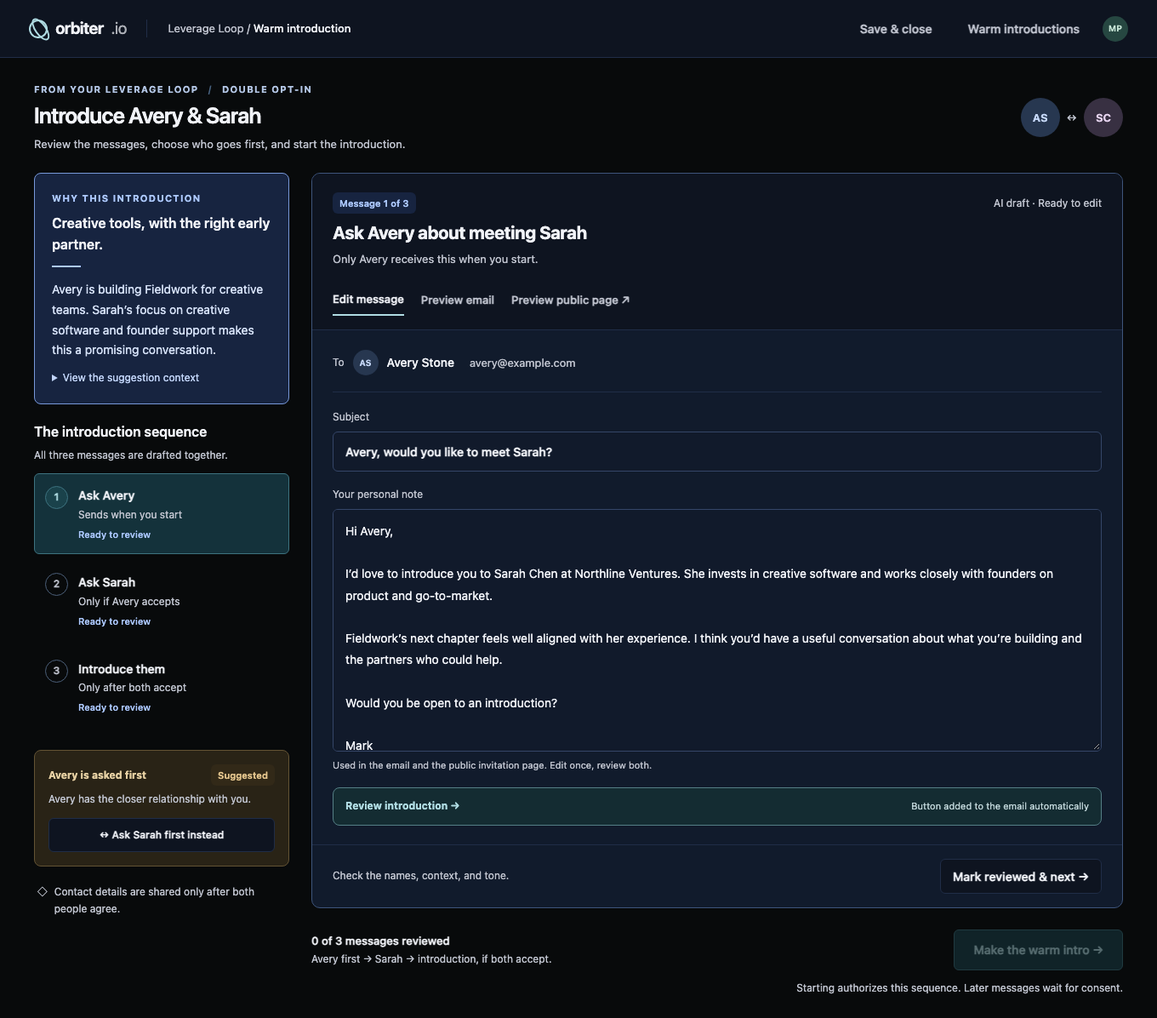
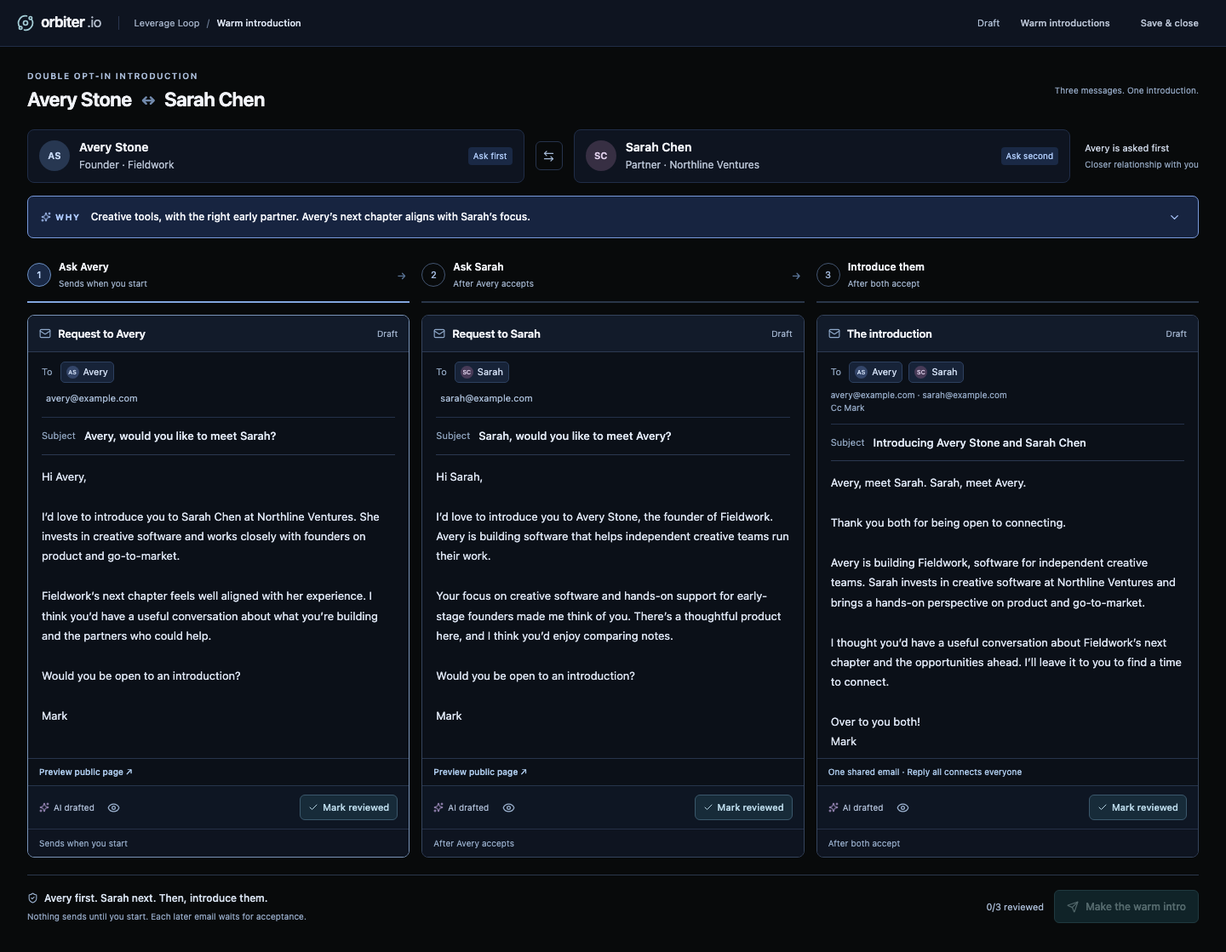
Use three composers for Warm Intro setup design

diff --git a/images/warm-intro/warm-intro-reference.html b/images/warm-intro/warm-intro-reference.html
@@ -24,6 +24,28 @@ button{border-radius:6px}button.primary{background:var(--orb-action-button);bord
 @media(max-width:420px){.public-content{padding:20px}.public-content h1{margin-top:20px}.public-profile{margin:18px 0}.personal-note .note-text{font-size:14px}.history-header .row{align-items:flex-start;flex-wrap:wrap}.recipient label{width:100%}.recipient{gap:8px}.recipient input{width:100%}.editor-bottom{align-items:stretch;flex-direction:column;gap:10px}.editor-bottom button{min-height:44px}.app-header .avatar{display:none}.prototype-bar nav{gap:1px}}
 .capture.mobile-direct .phone{min-height:0}
 </style>
+<style id="three-composer-styles">
+#wi-setup{--wi-page:#080a0b;--wi-panel:#0e1420;--wi-editor:#0b1018;--wi-border:#27344d;--wi-line:#202d47;--wi-text:#f1f3f8;--wi-muted:#b6c0d1;--wi-soft:#8e9eb5;--wi-why:#172440;--wi-why-border:#7899da;--wi-blue:#adc9ff;--wi-action:#14323b;--wi-action-button:#1a424b;--wi-action-border:#3e7380;--wi-action-text:#b0dce3;--wi-green:#a7d4bc;--wi-gap:14px;--wi-body-height:290px;--wi-pad:16px;color-scheme:dark;font-family:-apple-system,BlinkMacSystemFont,"Segoe UI",Arial,sans-serif;color:var(--wi-text);font-size:14px;line-height:1.5;width:100%;background:transparent}
+#wi-setup *{box-sizing:border-box}#wi-setup h1,#wi-setup h2,#wi-setup h3,#wi-setup p{margin:0}#wi-setup button,#wi-setup input,#wi-setup textarea{font:inherit}#wi-setup button{color:var(--wi-text);border:1px solid var(--wi-border);background:var(--wi-panel);border-radius:6px;min-height:34px;padding:7px 11px;font-size:12px;font-weight:500}#wi-setup button:hover{background:#162035;border-color:#627799}#wi-setup button:disabled{opacity:.45;cursor:default}#wi-setup button:focus-visible,#wi-setup input:focus-visible,#wi-setup textarea:focus-visible{outline:2px solid #adc9ff;outline-offset:3px}#wi-setup svg{width:15px;height:15px;flex:none}#wi-setup .wi-product{background:var(--wi-page);border:1px solid #253044;border-radius:10px;overflow:hidden}#wi-setup .wi-appbar{display:flex;align-items:center;gap:12px;min-height:54px;padding:10px 20px;background:var(--wi-panel);border-bottom:1px solid var(--wi-line)}#wi-setup .wi-appbar-left{display:flex;align-items:center;gap:20px;flex:1;min-width:0}#wi-setup .wi-brand{font-size:17px;font-weight:650;display:inline-flex;align-items:center;gap:5px;letter-spacing:-.5px;white-space:nowrap}#wi-setup .wi-brand>span{font-weight:400;color:#b3bdcc;margin-left:-2px}#wi-setup .wi-brand svg{width:20px;height:20px;margin-right:3px;color:#a6d0d9}#wi-setup .wi-breadcrumb{font-size:11px;color:#a1afc5;padding-left:18px;border-left:1px solid #2a3650}#wi-setup .wi-breadcrumb b{color:#dce4f2;font-weight:500}#wi-setup .wi-breadcrumb>span{margin:0 5px;color:#6b7b94}#wi-setup .wi-draft-tag{font-size:11px;color:#aebdd3}#wi-setup .wi-close{display:grid;place-items:center;border-color:transparent;background:transparent;min-width:30px;min-height:30px;padding:5px;color:#a4b5ce}#wi-setup .wi-workspace{padding:24px}#wi-setup .wi-heading{display:flex;align-items:center;justify-content:space-between;gap:16px;margin-bottom:20px}#wi-setup .wi-kicker{font-size:10px;letter-spacing:1.4px;text-transform:uppercase;color:#a9bbd7;font-weight:600;margin-bottom:5px}#wi-setup h1{font-size:23px;line-height:1.3;letter-spacing:-.5px;font-weight:650;color:var(--wi-text)}#wi-setup h1>span{font-size:19px;color:#7189ab;margin:0 6px}#wi-setup .wi-local-label{font-size:10px;color:#8da0bb;white-space:nowrap}#wi-setup .wi-people-row{display:grid;grid-template-columns:1fr auto 1fr auto;gap:13px;align-items:center;margin-bottom:15px}#wi-setup .wi-person{display:flex;gap:11px;align-items:center;min-width:0;border:1px solid var(--wi-line);background:var(--wi-panel);border-radius:8px;padding:11px 13px}#wi-setup .wi-avatar{width:36px;height:36px;display:inline-flex;align-items:center;justify-content:center;border-radius:50%;background:#273751;color:#c6d7f4;font-weight:600;font-size:11px;flex:none}#wi-setup .wi-avatar.wi-sarah{background:#372f43;color:#decee9}#wi-setup .wi-avatar.wi-mini{width:24px;height:24px;font-size:9px}#wi-setup .wi-person-name{font-size:13px;font-weight:600;line-height:1.3}#wi-setup .wi-person-role{font-size:11px;color:var(--wi-muted);line-height:1.5;margin-top:3px}#wi-setup .wi-person-copy{min-width:0;flex:1}#wi-setup .wi-person-order{color:#abc7f5;font-size:10px;padding:3px 6px;border-radius:4px;background:#1a2945;white-space:nowrap}#wi-setup .wi-swap{padding:6px;min-width:32px;display:grid;place-items:center;background:transparent;color:#a5bad7}#wi-setup .wi-relationship{font-size:11px;line-height:1.5;max-width:165px;color:#c8d1e0;padding-left:4px}#wi-setup .wi-relationship span{display:block;color:#8fa2bb;font-size:10px;margin-top:3px}#wi-setup .wi-why{background:var(--wi-why);border:1px solid var(--wi-why-border);border-radius:7px;margin-bottom:22px;padding:12px 15px}#wi-setup .wi-why-top{display:flex;gap:12px;align-items:center}#wi-setup .wi-why-label{font-size:10px;font-weight:650;letter-spacing:1.5px;color:var(--wi-blue);display:inline-flex;align-items:center;gap:5px;white-space:nowrap}#wi-setup .wi-why-label svg{width:12px;height:12px}#wi-setup .wi-why-headline{font-size:12px;font-weight:500;flex:1;line-height:1.6}#wi-setup .wi-why-toggle{padding:2px 5px;border:0;min-width:24px;min-height:24px;background:transparent;color:var(--wi-blue);display:grid;place-items:center}#wi-setup .wi-why-copy{font-size:12px;color:#d4def0;line-height:1.75;margin-top:11px;padding-top:11px;border-top:1px solid #4b6087}#wi-setup .wi-stage-row{display:grid;grid-template-columns:repeat(3,minmax(0,1fr));gap:var(--wi-gap);position:relative;margin-bottom:14px}#wi-setup .wi-stage{border:0;background:transparent;padding:0 0 10px;display:flex;align-items:center;gap:9px;text-align:left;position:relative;border-radius:0;border-bottom:2px solid #2a3649;min-height:54px}#wi-setup .wi-stage:hover{background:transparent;border-color:#627799}#wi-setup .wi-stage.wi-current{border-bottom-color:#82a6de}#wi-setup .wi-stage.wi-reviewed{border-bottom-color:#74a891}#wi-setup .wi-stage-number{width:28px;height:28px;border:1px solid #435571;border-radius:50%;display:grid;place-items:center;color:#9fb5d7;font-size:11px;flex:none}#wi-setup .wi-stage.wi-current .wi-stage-number{background:#1a2945;border-color:#6b8fc2;color:#c1d7fc}#wi-setup .wi-stage.wi-reviewed .wi-stage-number{background:#1b342e;border-color:#47715e;color:#a7d4bc}#wi-setup .wi-stage-title{font-size:12px;font-weight:600;display:block}#wi-setup .wi-stage-subtitle{font-size:10px;font-weight:400;color:#99aac2;display:block;margin-top:3px;line-height:1.5}#wi-setup .wi-stage-arrow{margin-left:auto;color:#587294;width:15px;height:15px}#wi-setup .wi-composers{display:grid;grid-template-columns:repeat(3,minmax(0,1fr));gap:var(--wi-gap);align-items:stretch}#wi-setup .wi-mail{min-width:0;display:flex;flex-direction:column;background:var(--wi-editor);border:1px solid #35445d;border-radius:8px;overflow:hidden}#wi-setup .wi-mail.wi-active-mail{border-color:#7994b8}#wi-setup .wi-mail.wi-mail-reviewed{border-color:#436957}#wi-setup .wi-mail-window{display:flex;align-items:center;gap:8px;min-height:43px;padding:10px 13px;background:#121b2a;border-bottom:1px solid #2d3a52}#wi-setup .wi-mail-window>svg{color:#8fa9ca;width:14px;height:14px}#wi-setup .wi-mail-window h2{font-size:12px;font-weight:600;line-height:1.4;flex:1;min-width:0;color:var(--wi-text)}#wi-setup .wi-mail-window>span{font-size:10px;color:#9fb1cb;white-space:nowrap}#wi-setup .wi-mail.wi-mail-reviewed .wi-mail-window>span{color:#a7d4bc}#wi-setup .wi-envelope{padding:0 var(--wi-pad)}#wi-setup .wi-to{display:flex;align-items:center;flex-wrap:wrap;gap:7px;padding:11px 0;border-bottom:1px solid #243149;min-height:48px}#wi-setup .wi-to-label{color:#8b9fb9;font-size:11px;margin-right:2px}#wi-setup .wi-recipient-chip{display:inline-flex;align-items:center;gap:5px;background:#172338;border:1px solid #2d405f;border-radius:5px;padding:3px 6px;color:#ccd9ee;font-size:11px;max-width:100%}#wi-setup .wi-chip-dot{width:15px;height:15px;border-radius:50%;background:#34466a;color:#d3e1f7;font-size:7px;display:inline-grid;place-items:center;flex:none}#wi-setup .wi-chip-dot.wi-sarah{background:#483b58;color:#e1d3ed}#wi-setup .wi-to-address{font-size:10px;color:#92a6c2;overflow-wrap:anywhere;flex-basis:100%;padding-left:23px}#wi-setup .wi-subject{display:flex;align-items:center;gap:10px;border-bottom:1px solid #2b3850;padding:11px 0}#wi-setup .wi-subject>span{font-size:11px;color:#8b9fb9;flex:none}#wi-setup .wi-subject input{padding:0;min-width:0;flex:1;width:100%;border:0;border-radius:3px;background:transparent;color:#e1e9f6;font-size:12px;line-height:1.6;font-weight:500;outline-offset:5px}#wi-setup .wi-body-wrap{padding:14px var(--wi-pad) 8px;flex:1;display:flex;flex-direction:column;min-height:0}#wi-setup .wi-body{width:100%;height:var(--wi-body-height);min-height:180px;border:0;outline-offset:4px;border-radius:4px;padding:0;color:#dce4f2;background:transparent;font-size:12px;line-height:1.8;resize:vertical;display:block}#wi-setup .wi-message-preview{font-size:12px;line-height:1.8;color:#dce4f2;white-space:pre-line;min-height:var(--wi-body-height);overflow-wrap:anywhere}#wi-setup .wi-embedded-action{margin-top:13px;padding:8px 10px;background:#153139;border:1px solid #35636e;color:#acd5df;border-radius:5px;align-self:flex-start;font-size:11px;display:inline-flex;gap:6px;align-items:center}#wi-setup .wi-draft-tools{display:flex;align-items:center;justify-content:space-between;gap:10px;padding:10px 13px;border-top:1px solid #27354c;flex-wrap:wrap;background:#0e1623}#wi-setup .wi-tool-pair{display:flex;align-items:center;gap:9px}#wi-setup .wi-ai{font-size:10px;color:#a9b8d0;display:flex;align-items:center;gap:5px}#wi-setup .wi-ai svg{width:12px;height:12px;color:#ac97cb}#wi-setup .wi-icon-button{display:flex;align-items:center;justify-content:center;border-color:transparent;background:transparent;min-width:28px;min-height:28px;padding:4px;color:#9eb4d2}#wi-setup .wi-review-button{font-size:11px;min-height:30px;padding:5px 9px;display:flex;gap:5px;align-items:center;background:#172b39;border:1px solid #3b586c;color:#b8d6e6}#wi-setup .wi-review-button svg{width:12px;height:12px}#wi-setup .wi-review-button[aria-pressed="true"]{background:#18352b;border-color:#426b58;color:#b1dac3}#wi-setup .wi-trigger{font-size:10px;line-height:1.6;color:#8fa4c0;padding:8px 13px;background:#0e1420;border-top:1px solid #253047}#wi-setup .wi-sendbar{display:flex;justify-content:space-between;align-items:center;gap:18px;border-top:1px solid #2b374b;margin-top:20px;padding-top:17px}#wi-setup .wi-sendcopy strong{font-size:12px;font-weight:500;color:#d6e0ee;display:flex;align-items:center;gap:7px}#wi-setup .wi-sendcopy strong svg{width:13px;height:13px;color:#9bb2d1}#wi-setup .wi-sendcopy small{display:block;font-size:10px;color:#90a3bf;margin-top:5px;line-height:1.5}#wi-setup .wi-send-actions{display:flex;align-items:center;gap:12px}#wi-setup .wi-count{color:#a9bbd5;font-size:11px;white-space:nowrap}#wi-setup .wi-launch{background:var(--wi-action-button);border-color:var(--wi-action-border);color:var(--wi-action-text);display:flex;gap:8px;align-items:center;min-height:39px;padding:8px 14px;font-size:12px;white-space:nowrap}#wi-setup .wi-launch:hover{background:#245460;border-color:#749ca6}#wi-setup .wi-launch svg{width:14px;height:14px}#wi-setup .wi-feedback{font-size:12px;color:#badbcf;line-height:1.6}#wi-setup .wi-feedback:not(:empty){border:1px solid #3d6659;background:#163127;border-radius:6px;padding:10px 13px;margin-top:13px}#wi-setup .wi-mail-content{display:flex;flex-direction:column;flex:1;min-width:0}
+@media(min-width:1200px){#wi-setup{--wi-body-height:305px}#wi-setup .wi-workspace{padding:27px 32px}#wi-setup .wi-body,#wi-setup .wi-message-preview{font-size:13px}#wi-setup .wi-mail-window h2{font-size:13px}#wi-setup .wi-subject input{font-size:13px}#wi-setup .wi-person-name{font-size:14px}#wi-setup .wi-person-role{font-size:12px}}
+@media(max-width:850px){#wi-setup .wi-people-row{grid-template-columns:1fr auto 1fr}#wi-setup .wi-relationship{grid-column:1/-1;max-width:none;display:flex;gap:7px;align-items:center;padding:0}#wi-setup .wi-relationship span{margin:0}#wi-setup .wi-workspace{padding:19px}#wi-setup .wi-mail-window{padding:10px}#wi-setup .wi-draft-tools{padding:9px 10px;gap:6px}#wi-setup .wi-ai{font-size:10px}#wi-setup .wi-to-address{padding-left:0}#wi-setup .wi-review-button{font-size:10px;padding:5px 7px}#wi-setup .wi-mail-window>span{font-size:9px}#wi-setup .wi-stage-subtitle{font-size:10px}#wi-setup .wi-sendbar{align-items:flex-start}#wi-setup .wi-send-actions{flex-wrap:wrap;justify-content:flex-end;gap:7px}#wi-setup .wi-breadcrumb{font-size:10px}#wi-setup .wi-person{padding:10px}#wi-setup .wi-person-order{display:none}}
+@media(max-width:650px){#wi-setup .wi-appbar{padding:9px 14px}#wi-setup .wi-breadcrumb{display:none}#wi-setup .wi-workspace{padding:17px 13px}#wi-setup .wi-heading{align-items:flex-start;gap:8px}#wi-setup h1{font-size:19px}#wi-setup h1>span{font-size:16px;margin:0 3px}#wi-setup .wi-local-label{display:none}#wi-setup .wi-person{display:block;text-align:left}#wi-setup .wi-person .wi-avatar{margin-bottom:6px;width:30px;height:30px;font-size:10px}#wi-setup .wi-person-name{font-size:12px}#wi-setup .wi-person-role{font-size:10px}#wi-setup .wi-people-row{gap:8px}#wi-setup .wi-relationship{font-size:10px;flex-wrap:wrap;gap:3px}#wi-setup .wi-why-top{align-items:flex-start;gap:8px}#wi-setup .wi-why{padding:11px;margin-bottom:17px}#wi-setup .wi-why-headline{font-size:11px}#wi-setup .wi-why-label{font-size:9px;margin-top:3px}#wi-setup .wi-why-label svg{display:none}#wi-setup .wi-stage-row{gap:8px}#wi-setup .wi-stage{display:block;min-height:80px;padding-bottom:10px}#wi-setup .wi-stage-number{margin-bottom:7px;width:24px;height:24px}#wi-setup .wi-stage-title{font-size:11px}#wi-setup .wi-stage-subtitle{font-size:9px}#wi-setup .wi-stage-arrow{display:none}#wi-setup .wi-composers{grid-template-columns:1fr}#wi-setup .wi-mail-window h2{font-size:13px}#wi-setup .wi-mail-window>span{font-size:11px}#wi-setup .wi-mail-window{padding:11px 13px}#wi-setup .wi-envelope{padding:0 14px}#wi-setup .wi-body-wrap{padding:14px}#wi-setup .wi-body{font-size:16px;height:310px;min-height:180px;line-height:1.65}#wi-setup .wi-subject input{font-size:16px}#wi-setup .wi-to-address{padding-left:22px}#wi-setup .wi-sendbar{display:block}#wi-setup .wi-send-actions{justify-content:space-between;margin-top:15px}#wi-setup .wi-launch{font-size:11px;min-height:44px;padding:8px 11px}#wi-setup .wi-count{font-size:10px}#wi-setup .wi-review-button{font-size:12px;min-height:40px;padding:8px 11px}#wi-setup .wi-icon-button{min-width:40px;min-height:40px}#wi-setup .wi-to{font-size:12px}}
+@media(prefers-reduced-motion:no-preference){#wi-setup button{transition:background .15s,border-color .15s}}
+
+#wi-setup .wi-product{border:0;border-radius:0;min-height:calc(100vh - 58px)}
+#wi-setup .wi-workspace{max-width:1600px;margin:auto}
+#wi-setup .wi-mail-content{display:flex;flex-direction:column;flex:1;min-width:0}
+#wi-setup .wi-address{display:block;width:100%;min-width:0;flex-basis:100%;border:1px solid transparent;border-radius:4px;padding:2px 4px;background:transparent;color:#a7bad4;font-size:11px;line-height:1.5}
+#wi-setup .wi-address:hover{border-color:#35445d}#wi-setup .wi-address:invalid{border-color:#d69293}
+#wi-setup .wi-to-address{padding-left:0}
+#wi-setup .wi-body{overflow:hidden;resize:none}
+#wi-setup .wi-message-preview{min-height:0;flex:1}
+#wi-setup .wi-public-preview{font-size:10px;color:#abc8e9;background:transparent;border:0;border-radius:0;padding:8px 13px;min-height:32px;text-align:left;border-top:1px solid #27354c}
+#wi-setup .wi-mail{scroll-margin-top:18px}
+#wi-setup .wi-top-action{background:transparent;border-color:transparent;color:#b6c0d1;font-size:11px}
+#wi-setup .wi-sendbar{padding-bottom:7px}
+@media(max-width:650px){#wi-setup .wi-address{font-size:16px}#wi-setup .wi-appbar{flex-wrap:wrap}#wi-setup .wi-top-action{font-size:10px;padding:5px}#wi-setup .wi-appbar-left{flex-basis:100%}#wi-setup .wi-public-preview{min-height:44px}}
+</style>
 </head>
 <body>
 <div class="prototype-bar" data-preview>
@@ -52,20 +74,65 @@ function ask(title,copy,confirmLabel,onConfirm,cancelLabel='Keep editing'){const
 function navigate(view){currentView=view;document.querySelectorAll('[data-view]').forEach(b=>b.classList.toggle('active',b.dataset.view===view));render();window.scrollTo(0,0)}
 function render(){if(currentView==='setup')renderSetup();else if(currentView==='recipient')renderRecipient();else if(currentView==='emails')renderEmails();else if(currentView==='source')renderSource();else renderHistory()}
 function renderSource(){app.innerHTML=`<header class="app-header">${brand()}<button data-action="source-history">Warm introductions</button></header><section class="workspace" style="max-width:1000px"><div class="eyebrow">Leverage Loop</div><h1 style="margin:16px 0 24px">Introduce Avery Stone to Sarah Chen</h1><div class="why"><div class="row" style="margin-bottom:18px">${avatar(people.avery)}<strong>Avery Stone</strong><span class="muted">↔</span>${avatar(people.sarah)}<strong>Sarah Chen</strong></div><h3>Creative tools, with the right early partner.</h3><p>Avery is building Fieldwork for creative teams. Sarah’s focus on creative software and founder support makes this a promising conversation.</p></div><div class="email-action" style="margin-top:20px"><strong>Double Opt-In Warm Introduction</strong><button class="primary" data-action="resume">${started?'View introduction':'Resume warm introduction'} →</button></div><p class="small muted" style="margin-top:16px">Design preview · This represents the originating suggestion.</p></section>`;app.querySelector('[data-action="resume"]').onclick=()=>{if(started){detailId='current';navigate('tracking')}else navigate('setup')};app.querySelector('[data-action="source-history"]').onclick=()=>{detailId=null;navigate('tracking')}}
+const setupIcons={"orbit": "<svg xmlns=\"http://www.w3.org/2000/svg\" width=\"16\" height=\"16\" viewBox=\"0 0 24 24\" fill=\"none\" stroke=\"currentColor\" stroke-width=\"2\" stroke-linecap=\"round\" stroke-linejoin=\"round\" data-lucide=\"orbit\" aria-hidden=\"true\" class=\"lucide lucide-orbit\"><path d=\"M20.341 6.484A10 10 0 0 1 10.266 21.85\"></path><path d=\"M3.659 17.516A10 10 0 0 1 13.74 2.152\"></path><circle cx=\"12\" cy=\"12\" r=\"3\"></circle><circle cx=\"19\" cy=\"5\" r=\"2\"></circle><circle cx=\"5\" cy=\"19\" r=\"2\"></circle></svg>", "x": "<svg xmlns=\"http://www.w3.org/2000/svg\" width=\"16\" height=\"16\" viewBox=\"0 0 24 24\" fill=\"none\" stroke=\"currentColor\" stroke-width=\"2\" stroke-linecap=\"round\" stroke-linejoin=\"round\" data-lucide=\"x\" aria-hidden=\"true\" class=\"lucide lucide-x\"><path d=\"M18 6 6 18\"></path><path d=\"m6 6 12 12\"></path></svg>", "arrow-left-right": "<svg xmlns=\"http://www.w3.org/2000/svg\" width=\"15\" height=\"15\" viewBox=\"0 0 24 24\" fill=\"none\" stroke=\"currentColor\" stroke-width=\"2\" stroke-linecap=\"round\" stroke-linejoin=\"round\" data-lucide=\"arrow-left-right\" aria-hidden=\"true\" class=\"lucide lucide-arrow-left-right\"><path d=\"M8 3 4 7l4 4\"></path><path d=\"M4 7h16\"></path><path d=\"m16 21 4-4-4-4\"></path><path d=\"M20 17H4\"></path></svg>", "sparkles": "<svg xmlns=\"http://www.w3.org/2000/svg\" width=\"15\" height=\"15\" viewBox=\"0 0 24 24\" fill=\"none\" stroke=\"currentColor\" stroke-width=\"2\" stroke-linecap=\"round\" stroke-linejoin=\"round\" data-lucide=\"sparkles\" aria-hidden=\"true\" class=\"lucide lucide-sparkles\"><path d=\"M11.017 2.814a1 1 0 0 1 1.966 0l1.051 5.558a2 2 0 0 0 1.594 1.594l5.558 1.051a1 1 0 0 1 0 1.966l-5.558 1.051a2 2 0 0 0-1.594 1.594l-1.051 5.558a1 1 0 0 1-1.966 0l-1.051-5.558a2 2 0 0 0-1.594-1.594l-5.558-1.051a1 1 0 0 1 0-1.966l5.558-1.051a2 2 0 0 0 1.594-1.594z\"></path><path d=\"M20 2v4\"></path><path d=\"M22 4h-4\"></path><circle cx=\"4\" cy=\"20\" r=\"2\"></circle></svg>", "chevron-down": "<svg xmlns=\"http://www.w3.org/2000/svg\" width=\"16\" height=\"16\" viewBox=\"0 0 24 24\" fill=\"none\" stroke=\"currentColor\" stroke-width=\"2\" stroke-linecap=\"round\" stroke-linejoin=\"round\" data-lucide=\"chevron-down\" aria-hidden=\"true\" class=\"lucide lucide-chevron-down\"><path d=\"m6 9 6 6 6-6\"></path></svg>", "mail": "<svg xmlns=\"http://www.w3.org/2000/svg\" width=\"15\" height=\"15\" viewBox=\"0 0 24 24\" fill=\"none\" stroke=\"currentColor\" stroke-width=\"2\" stroke-linecap=\"round\" stroke-linejoin=\"round\" data-lucide=\"mail\" aria-hidden=\"true\" class=\"lucide lucide-mail\"><path d=\"m22 7-8.991 5.727a2 2 0 0 1-2.009 0L2 7\"></path><rect x=\"2\" y=\"4\" width=\"20\" height=\"16\" rx=\"2\"></rect></svg>", "eye": "<svg xmlns=\"http://www.w3.org/2000/svg\" width=\"15\" height=\"15\" viewBox=\"0 0 24 24\" fill=\"none\" stroke=\"currentColor\" stroke-width=\"2\" stroke-linecap=\"round\" stroke-linejoin=\"round\" data-lucide=\"eye\" aria-hidden=\"true\" class=\"lucide lucide-eye\"><path d=\"M2.062 12.348a1 1 0 0 1 0-.696 10.75 10.75 0 0 1 19.876 0 1 1 0 0 1 0 .696 10.75 10.75 0 0 1-19.876 0\"></path><circle cx=\"12\" cy=\"12\" r=\"3\"></circle></svg>", "check": "<svg xmlns=\"http://www.w3.org/2000/svg\" width=\"15\" height=\"15\" viewBox=\"0 0 24 24\" fill=\"none\" stroke=\"currentColor\" stroke-width=\"2\" stroke-linecap=\"round\" stroke-linejoin=\"round\" data-lucide=\"check\" aria-hidden=\"true\" class=\"lucide lucide-check\"><path d=\"M20 6 9 17l-5-5\"></path></svg>", "shield-check": "<svg xmlns=\"http://www.w3.org/2000/svg\" width=\"15\" height=\"15\" viewBox=\"0 0 24 24\" fill=\"none\" stroke=\"currentColor\" stroke-width=\"2\" stroke-linecap=\"round\" stroke-linejoin=\"round\" data-lucide=\"shield-check\" aria-hidden=\"true\" class=\"lucide lucide-shield-check\"><path d=\"M20 13c0 5-3.5 7.5-7.66 8.95a1 1 0 0 1-.67-.01C7.5 20.5 4 18 4 13V6a1 1 0 0 1 1-1c2 0 4.5-1.2 6.24-2.72a1.17 1.17 0 0 1 1.52 0C14.51 3.81 17 5 19 5a1 1 0 0 1 1 1z\"></path><path d=\"m9 12 2 2 4-4\"></path></svg>", "send": "<svg xmlns=\"http://www.w3.org/2000/svg\" width=\"15\" height=\"15\" viewBox=\"0 0 24 24\" fill=\"none\" stroke=\"currentColor\" stroke-width=\"2\" stroke-linecap=\"round\" stroke-linejoin=\"round\" data-lucide=\"send\" aria-hidden=\"true\" class=\"lucide lucide-send\"><path d=\"M14.536 21.686a.5.5 0 0 0 .937-.024l6.5-19a.496.496 0 0 0-.635-.635l-19 6.5a.5.5 0 0 0-.024.937l7.93 3.18a2 2 0 0 1 1.112 1.11z\"></path><path d=\"m21.854 2.147-10.94 10.939\"></path></svg>", "chevron-up": "<svg xmlns=\"http://www.w3.org/2000/svg\" width=\"15\" height=\"15\" viewBox=\"0 0 24 24\" fill=\"none\" stroke=\"currentColor\" stroke-width=\"2\" stroke-linecap=\"round\" stroke-linejoin=\"round\" data-lucide=\"chevron-up\" aria-hidden=\"true\" class=\"lucide lucide-chevron-up\"><path d=\"m18 15-6-6-6 6\"></path></svg>"};
+
+let setupExpanded=false,setupPreviews=new Set(),setupObserver;
+function setupIcon(name){return setupIcons[name]||''}
+function setupKey(i){return i===2?'final':order[i]}
+function setupTrigger(i){return i===0?'Sends when you start':i===1?`After ${first().first} accepts`:'After both accept'}
+function setupChip(k){const p=people[k];return `<span class="wi-recipient-chip"><span class="wi-chip-dot ${p.id==='sarah'?'wi-sarah':''}" aria-hidden="true">${p.initials}</span>${p.first}</span>`}
+function setupPerson(k,i){const p=people[k];return `<div class="wi-person"><span class="wi-avatar ${p.id==='sarah'?'wi-sarah':''}" aria-hidden="true">${p.initials}</span><div class="wi-person-copy"><div class="wi-person-name">${p.name}</div><div class="wi-person-role">${p.role}</div></div><span class="wi-person-order">Ask ${i===0?'first':'second'}</span></div>`}
+function setupStages(){return `<div class="wi-stage-row" role="group" aria-label="Introduction stages">${[0,1,2].map(i=>`<button class="wi-stage ${activeStep===i?'wi-current':''} ${reviewed.has(setupKey(i))?'wi-reviewed':''}" data-stage="${i}" aria-pressed="${activeStep===i}"><span class="wi-stage-number">${reviewed.has(setupKey(i))?'✓':i+1}</span><span><span class="wi-stage-title">${i===2?'Introduce them':`Ask ${people[order[i]].first}`}</span><span class="wi-stage-subtitle">${setupTrigger(i)}</span></span>${i<2?'<span class="wi-stage-arrow" aria-hidden="true">→</span>':''}</button>`).join('')}</div>`}
+function setupMail(i){
+ const k=setupKey(i),d=drafts[k],isReviewed=reviewed.has(k),preview=setupPreviews.has(k),heading=i===2?'The introduction':`Request to ${people[k].first}`;
+ return `<section class="wi-mail ${activeStep===i?'wi-active-mail':''} ${isReviewed?'wi-mail-reviewed':''}" data-mail="${i}" aria-label="${heading}" tabindex="-1"><header class="wi-mail-window">${setupIcon('mail')}<h2>${heading}</h2><span data-review-state="${k}">${isReviewed?'Reviewed':'Draft'}</span></header><div class="wi-mail-content"><div class="wi-envelope"><div class="wi-to"><span class="wi-to-label">To</span>${i===2?setupChip('avery')+setupChip('sarah'):setupChip(k)}${i===2?`<span class="wi-to-address" data-final-addresses>${esc(people.avery.email)} · ${esc(people.sarah.email)}<br>Cc Mark</span>`:`<input class="wi-address" type="email" aria-label="${people[k].first}’s email address" data-email="${k}" value="${esc(people[k].email)}" />`}</div><label class="wi-subject"><span>Subject</span><input type="text" maxlength="160" data-subject="${k}" aria-label="${heading} subject" value="${esc(d.subject)}" /></label></div><div class="wi-body-wrap">${preview?`<div class="wi-message-preview">${esc(d.body)}</div>${i<2?'<span class="wi-embedded-action">Review introduction ↗</span>':''}`:`<textarea class="wi-body" maxlength="3000" data-body="${k}" aria-label="${heading} message">${esc(d.body)}</textarea>`}</div></div>${i<2?`<button class="wi-public-preview" data-public-preview="${i}">Preview public page ↗</button>`:'<div class="wi-public-preview">One shared email · Reply all connects everyone</div>'}<footer class="wi-draft-tools"><div class="wi-tool-pair"><span class="wi-ai">${setupIcon('sparkles')} AI drafted</span><button class="wi-icon-button" data-preview="${k}" aria-label="${preview?'Edit':'Preview'} ${heading.toLowerCase()}" aria-pressed="${preview}">${preview?'Edit':setupIcon('eye')}</button></div><button class="wi-review-button" data-review="${k}" aria-pressed="${isReviewed}">${setupIcon('check')} ${isReviewed?'Reviewed':'Mark reviewed'}</button></footer><div class="wi-trigger">${setupTrigger(i)}</div></section>`;
+}
+function setupSendbar(){return `<footer class="wi-sendbar"><div class="wi-sendcopy"><strong>${setupIcon('shield-check')} ${first().first} first. ${second().first} next. Then, introduce them.</strong><small>Nothing sends until you start. Each later email waits for acceptance.</small></div><div class="wi-send-actions"><span class="wi-count">${reviewed.size}/3 reviewed</span><button class="wi-launch" data-launch ${reviewed.size<3?'disabled':''}>${setupIcon('send')} Make the warm intro</button></div></footer>`}
+function fitSetupComposers(){app.querySelectorAll('.wi-body').forEach(el=>{el.style.height='1px';el.style.height=Math.max(parseFloat(getComputedStyle(el).minHeight)||180,el.scrollHeight)+'px'})}
+function setupRefreshStatus(k){
+ reviewed.delete(k);
+ const state=app.querySelector(`[data-review-state="${k}"]`),b=app.querySelector(`[data-review="${k}"]`);
+ if(state)state.textContent='Edited';
+ if(b){b.setAttribute('aria-pressed','false');b.innerHTML=setupIcon('check')+' Mark reviewed';b.closest('.wi-mail').classList.remove('wi-mail-reviewed')}
+ app.querySelector('#wi-stages').innerHTML=setupStages();app.querySelector('#wi-sendbar').innerHTML=setupSendbar();
+}
+function setupValidate(k){
+ const d=drafts[k];
+ if(!d.subject.trim()||!d.body.trim()){notify('Add a subject and message before marking this reviewed.');app.querySelector(`[data-${!d.subject.trim()?'subject':'body'}="${k}"]`)?.focus();return false}
+ const keys=k==='final'?order:[k];
+ for(const id of keys){if(!/^[^\s@]+@[^\s@]+\.[^\s@]+$/.test(people[id].email.trim())){notify('Choose a valid email address for this person.');app.querySelector(`[data-email="${id}"]`)?.focus();return false}}
+ return true;
+}
 function renderSetup(){
  if(started){detailId='current';navigate('tracking');return}
- const k=key(),p=people[k],d=drafts[k],count=reviewed.size;
- app.innerHTML=`${header()}<section class="workspace"><div class="hero"><div><div class="eyebrow">From your Leverage Loop <span style="color:#48627f;padding:0 7px">/</span> Double opt-in</div><h1>Introduce Avery & Sarah</h1><p class="muted">Review the messages, choose who goes first, and start the introduction.</p></div><div class="pair">${avatar(people.avery)}<span class="muted" aria-hidden="true">↔</span>${avatar(people.sarah)}</div></div><div class="composer-grid"><aside class="context"><div class="why"><div class="eyebrow">Why this introduction</div><h3>Creative tools, with the right early partner.</h3><p>Avery is building Fieldwork for creative teams. Sarah’s focus on creative software and founder support makes this a promising conversation.</p><details><summary>View the suggestion context</summary><p>Both are already in your contacts. The suggestion connects Avery’s next stage of growth with Sarah’s experience helping early-stage software founders. This private context guides the drafts; recipients see only the messages you review.</p></details></div><section class="sequence"><h3>The introduction sequence</h3><p class="explanation">All three messages are drafted together.</p><div class="sequence-buttons">${[0,1,2].map(i=>{const rk=i===2?'final':order[i],isReviewed=reviewed.has(rk);return `<button class="sequence-step ${activeStep===i?'active':''} ${isReviewed?'done':''}" data-step="${i}" aria-current="${activeStep===i?'step':'false'}"><span class="step-number">${isReviewed?'✓':i+1}</span><span><span class="step-name">${i===2?'Introduce them':`Ask ${esc(people[order[i]].first)}`}</span><small>${i===0?'Sends when you start':i===1?`Only if ${esc(first().first)} accepts`:'Only after both accept'}</small><span class="draft-status">${isReviewed?'Reviewed':'Ready to review'}</span></span></button>`}).join('')}</div></section><div class="order-card"><div class="row between"><strong class="small">${esc(first().first)} is asked first</strong>${order[0]==='avery'?'<span class="pill amber">Suggested</span>':''}</div><p>${order[0]==='avery'?'Avery has the closer relationship with you.':'You changed the order. Sarah will receive the first request.'}</p><button data-action="swap">↔ Ask ${esc(second().first)} first instead</button></div><p class="privacy-note"><span aria-hidden="true">◇</span><span>Contact details are shared only after both people agree.</span></p></aside><div><section class="composer"><header class="composer-top"><div class="row between"><span class="pill blue">Message ${activeStep+1} of 3</span><span class="small muted">${reviewed.has(k)?'✓ Reviewed':'AI draft · Ready to edit'}</span></div><h2>${activeStep===2?'The final introduction':`Ask ${esc(p.first)} about meeting ${esc(people[order[1-activeStep]].first)}`}</h2><p>${activeStep===0?`Only ${esc(first().first)} receives this when you start.`:activeStep===1?`This sends automatically after ${esc(first().first)} accepts.`:'One shared email connects them after both accept.'}</p><div class="editor-tabs" aria-label="Draft view"><button data-editor="edit" class="${editorTab==='edit'?'active':''}" aria-pressed="${editorTab==='edit'}">Edit message</button><button data-editor="preview" class="${editorTab==='preview'?'active':''}" aria-pressed="${editorTab==='preview'}">Preview email</button>${activeStep!==2?'<button data-action="preview-recipient">Preview public page ↗</button>':''}</div></header>${editorTab==='edit'?`<div class="editor"><div class="recipient"><span class="small muted">To</span>${activeStep===2?`${avatar(people.avery,'small')}<strong>Avery</strong><span class="small muted">${esc(people.avery.email)}</span><span class="muted">+</span>${avatar(people.sarah,'small')}<strong>Sarah</strong><span class="small muted">${esc(people.sarah.email)}</span>`:`${avatar(p,'small')}<label><strong>${esc(p.name)}</strong><input aria-label="${esc(p.first)}’s email address" type="email" value="${esc(p.email)}" id="recipient-email" /></label>`}</div><label class="field"><span>Subject</span><input id="subject" maxlength="160" value="${esc(d.subject)}" /></label><label class="field"><span>${activeStep===2?'Introduction message':'Your personal note'}</span><textarea id="message" maxlength="3000">${esc(d.body)}</textarea><span class="helper">${activeStep===2?'Both people receive this exact message in the same email thread.':'Used in the email and the public invitation page. Edit once, review both.'}</span></label>${activeStep===2?'<div class="email-action"><strong>To Avery + Sarah · Mark copied</strong><small>Replies connect everyone</small></div>':'<div class="email-action"><strong>Review introduction →</strong><small>Button added to the email automatically</small></div>'}</div>`:`<div class="composer-preview">${emailCard(activeStep,false)}</div>`}<footer class="editor-bottom"><span class="review-note">${reviewed.has(k)?'✓ This message is reviewed':'Check the names, context, and tone.'}</span><button data-action="review">${reviewed.has(k)?(activeStep<2?'Next message →':'Reviewed ✓'):(activeStep<2?'Mark reviewed & next →':'Mark reviewed ✓')}</button></footer></section><div class="launch-bar"><div class="launch-copy"><strong id="review-count">${count} of 3 messages reviewed</strong><span>${esc(first().first)} first → ${esc(second().first)} → introduction, if both accept.</span></div><button class="primary" data-action="launch" ${count<3?'disabled':''}>Make the warm intro <span aria-hidden="true">→</span></button></div><p class="small muted" style="margin-top:12px;text-align:right">${started?'This sequence has already started. Open Warm introductions to track it.':'Starting authorizes this sequence. Later messages wait for consent.'}</p></div></div></section>`;
- bindSetup();
+ setupObserver?.disconnect();
+ app.innerHTML=`<div id="wi-setup"><div class="wi-product"><header class="wi-appbar"><div class="wi-appbar-left"><span class="wi-brand">${setupIcon('orbit')}orbiter<span>.io</span></span><span class="wi-breadcrumb">Leverage Loop <span aria-hidden="true">/</span> <b>Warm introduction</b></span></div><span class="wi-draft-tag">Draft</span><button class="wi-top-action" data-action="history">Warm introductions</button><button class="wi-top-action" data-action="save-close">Save & close</button></header><section class="wi-workspace"><div class="wi-heading"><div><div class="wi-kicker">Double opt-in introduction</div><h1>Avery Stone <span aria-hidden="true">↔</span> Sarah Chen</h1></div><span class="wi-local-label">Three messages. One introduction.</span></div><div class="wi-people-row">${setupPerson(order[0],0)}<button class="wi-swap" data-swap aria-label="Switch who is asked first" title="Ask ${second().first} first instead">${setupIcon('arrow-left-right')}</button>${setupPerson(order[1],1)}<div class="wi-relationship">${first().first} is asked first<span>${order[0]==='avery'?'Closer relationship with you':'You changed the order'}</span></div></div><section class="wi-why"><div class="wi-why-top"><span class="wi-why-label">${setupIcon('sparkles')} WHY</span><p class="wi-why-headline">Creative tools, with the right early partner. Avery’s next chapter aligns with Sarah’s focus.</p><button class="wi-why-toggle" data-why aria-expanded="${setupExpanded}" aria-label="${setupExpanded?'Hide':'Show'} introduction context">${setupIcon(setupExpanded?'chevron-up':'chevron-down')}</button></div>${setupExpanded?'<p class="wi-why-copy">Avery is building Fieldwork for independent creative teams. Sarah invests in creative software and supports early-stage founders on product and go-to-market. Both are already in your contacts. This private suggestion context guides the drafts; recipients see only the personal messages you review below.</p>':''}</section><div id="wi-stages">${setupStages()}</div><div class="wi-composers">${[0,1,2].map(setupMail).join('')}</div><div id="wi-sendbar">${setupSendbar()}</div></section></div></div>`;
+ bindSetup();fitSetupComposers();
+ let width=app.clientWidth;setupObserver=new ResizeObserver(()=>{if(currentView==='setup'&&app.clientWidth!==width){width=app.clientWidth;fitSetupComposers()}});setupObserver.observe(app);
 }
-function bindSetup(){app.querySelectorAll('[data-step]').forEach(b=>b.onclick=()=>{activeStep=+b.dataset.step;editorTab='edit';renderSetup()});app.querySelectorAll('[data-editor]').forEach(b=>b.onclick=()=>{editorTab=b.dataset.editor;renderSetup()});
- const sub=document.getElementById('subject'),body=document.getElementById('message'),email=document.getElementById('recipient-email');
- function changed(){reviewed.delete(key());document.getElementById('review-count').textContent=`${reviewed.size} of 3 messages reviewed`;app.querySelector('[data-action="launch"]').disabled=true;const step=app.querySelector('.sequence-step.active');step.classList.remove('done');step.querySelector('.step-number').textContent=activeStep+1;step.querySelector('.draft-status').textContent='Edited · Review again';app.querySelector('.review-note').textContent='Edited since last review.';app.querySelector('[data-action="review"]').textContent=activeStep<2?'Mark reviewed & next →':'Mark reviewed ✓'}
- if(sub)sub.oninput=()=>{drafts[key()].subject=sub.value;changed()};if(body)body.oninput=()=>{drafts[key()].body=body.value;changed()};if(email)email.oninput=()=>{people[key()].email=email.value;reviewed.delete('final');changed()};
- app.querySelector('[data-action="review"]').onclick=()=>{const d=drafts[key()];if(!d.subject.trim()||!d.body.trim()){notify('Add a subject and message before marking this reviewed.');return}if(activeStep<2&&!/^[^\s@]+@[^\s@]+\.[^\s@]+$/.test(people[key()].email)){notify('Choose a valid email address for this person.');return}reviewed.add(key());if(activeStep<2)activeStep++;editorTab='edit';renderSetup()};
- app.querySelector('[data-action="swap"]').onclick=()=>{order.reverse();reviewed.clear();activeStep=0;editorTab='edit';renderSetup();notify(`Now asking ${first().first} first. Your edits are preserved; review the new sequence.`)};
- app.querySelector('[data-action="save-close"]').onclick=()=>{navigate('source');notify('Draft kept for this preview. Refreshing resets it.')};app.querySelector('[data-action="history"]').onclick=()=>{detailId=null;navigate('tracking')};const pp=app.querySelector('[data-action="preview-recipient"]');if(pp)pp.onclick=()=>{recipientStage=activeStep===0?'first':'second';navigate('recipient')};
- app.querySelector('[data-action="launch"]').onclick=()=>{if(started){detailId='current';navigate('tracking');return}if(reviewed.size!==3)return;if(people.avery.email.trim().toLowerCase()===people.sarah.email.trim().toLowerCase()){notify('Choose a different email address for each person.');return}started=true;const current=histories.find(h=>h.id==='current');Object.assign(current,{state:'first',first:first().first,second:second().first,updated:'Just now'});detailId='current';navigate('tracking');notify(`Preview: request queued for ${first().first}. No email was sent.`)};
+function bindSetup(){
+ const root=app.querySelector('#wi-setup');
+ root.onclick=event=>{
+  const b=event.target.closest('button');if(!b||!root.contains(b))return;
+  if(b.hasAttribute('data-swap')){order.reverse();reviewed.clear();activeStep=0;renderSetup();notify(`Now asking ${first().first} first. Your edits are preserved; review the new sequence.`);app.querySelector('[data-swap]').focus();return}
+  if(b.hasAttribute('data-why')){setupExpanded=!setupExpanded;renderSetup();app.querySelector('[data-why]').focus();return}
+  if(b.dataset.stage!==undefined){activeStep=Number(b.dataset.stage);root.querySelector('#wi-stages').innerHTML=setupStages();root.querySelectorAll('.wi-mail').forEach((el,i)=>el.classList.toggle('wi-active-mail',i===activeStep));const card=root.querySelector(`[data-mail="${activeStep}"]`);card.focus({preventScroll:true});if(matchMedia('(max-width:650px)').matches)card.scrollIntoView({block:'start'});return}
+  if(b.dataset.preview){const k=b.dataset.preview;if(setupPreviews.has(k))setupPreviews.delete(k);else setupPreviews.add(k);renderSetup();app.querySelector(`[data-preview="${k}"]`).focus({preventScroll:true});return}
+  if(b.dataset.publicPreview!==undefined){recipientStage=Number(b.dataset.publicPreview)===0?'first':'second';navigate('recipient');return}
+  if(b.dataset.review){const k=b.dataset.review;if(reviewed.has(k))reviewed.delete(k);else if(setupValidate(k))reviewed.add(k);else return;renderSetup();app.querySelector(`[data-review="${k}"]`).focus({preventScroll:true});return}
+  if(b.dataset.action==='save-close'){navigate('source');notify('Draft kept for this preview. Refreshing resets it.');return}
+  if(b.dataset.action==='history'){detailId=null;navigate('tracking');return}
+  if(b.hasAttribute('data-launch')){
+   if(reviewed.size!==3||!['avery','sarah','final'].every(setupValidate))return;
+   if(people.avery.email.trim().toLowerCase()===people.sarah.email.trim().toLowerCase()){notify('Choose a different email address for each person.');app.querySelector('[data-email="sarah"]').focus();return}
+   started=true;const current=histories.find(h=>h.id==='current');Object.assign(current,{state:'first',first:first().first,second:second().first,updated:'Just now'});detailId='current';navigate('tracking');notify(`Preview: request queued for ${first().first}. No email was sent.`);
+  }
+ };
+ root.oninput=event=>{
+  const el=event.target,k=el.dataset.subject||el.dataset.body;
+  if(k){drafts[k][el.dataset.subject?'subject':'body']=el.value;setupRefreshStatus(k);fitSetupComposers()}
+  if(el.dataset.email){const id=el.dataset.email;people[id].email=el.value;setupRefreshStatus(id);setupRefreshStatus('final');root.querySelector('[data-final-addresses]').textContent=`${people.avery.email} · ${people.sarah.email} · Cc Mark`}
+ };
 }
 function personalNote(p){const full=drafts[p.id].body;return full.replace(/^Hi [^,]+,\s*/,'').replace(/\s*Mark\s*$/,'')}
 function renderRecipient(){

diff --git a/design/warm-intro/README.md b/design/warm-intro/README.md
@@ -8,9 +8,14 @@ The editable, self-contained source is `images/warm-intro/warm-intro-reference.h
 
 The current Outcome and Leverage Loop references in `design/suggestion-delivery/SuggestionStyles.jsx` and `palettes.js` supply the Midnight palette, borders, fields, compact profile language, and action treatment. The user-supplied 13 images from `~/Downloads/Warm_Intro/` were reviewed as older concept references, not implementation instructions or final styling. The new public page follows the current dark product style. Email uses a light inbox canvas.
 
+## Selected setup direction
+
+Direction 1 is the starting point: three mini email composers side by side, aligned beneath horizontal stages. Each draft has an independent preview and review action. The participant strip and expandable WHY span the workspace; the sequence has one final start action. Below 651 px, composers stack while stage navigation stays horizontal.
+
 ## Prototype coverage
 
-- Edit three message subjects and bodies; review each; switch which contact is asked first without losing edits.
+- Edit all three message subjects and bodies together; review each independently; switch which contact is asked first without losing edits.
+- Changing a recipient email invalidates that request and the final review, and updates the final recipient list. Per-message previews and public-page previews preserve edits.
 - Start the local sequence, then open the tracking record. Started drafts cannot be edited.
 - Preview the public first and second invitation; accept or decline, with an optional note visible only in sender detail.
 - The second acceptance shows a pending-send confirmation before a short local timer simulates completion. No emails are sent.
@@ -35,5 +40,7 @@ Append query parameters to the HTML filename:
 ## Verification
 
 The design was exercised with a temporary headless browser: recipient-specific edits after reordering, review invalidation, sequence launch, locking launched drafts, sequential consent, pending versus sent confirmation, private decline note, history filters/search, and cancellation retaining prior acceptance. No horizontal overflow was observed at 320, 390, 740, 1024, and 1440 pixels across all four surfaces. The MDX page was compiled with the repository's installed MDX compiler. These are prototype checks, not production integration tests.
+
+The selected three-composer setup was rechecked for visible parallel drafts, stage focus, independent review, address validation, previews, order switching, launch locking, and overflow at 320, 390, 650, 740, 1024, and 1440 px. See `verification.json` for this revision and the original checks.
 
 Screenshots `01` through `10` in `images/warm-intro/` were captured from this HTML. Regenerate screenshots and the ZIP when changing the reference. The build-plan page stays untouched until the design is reviewed.
